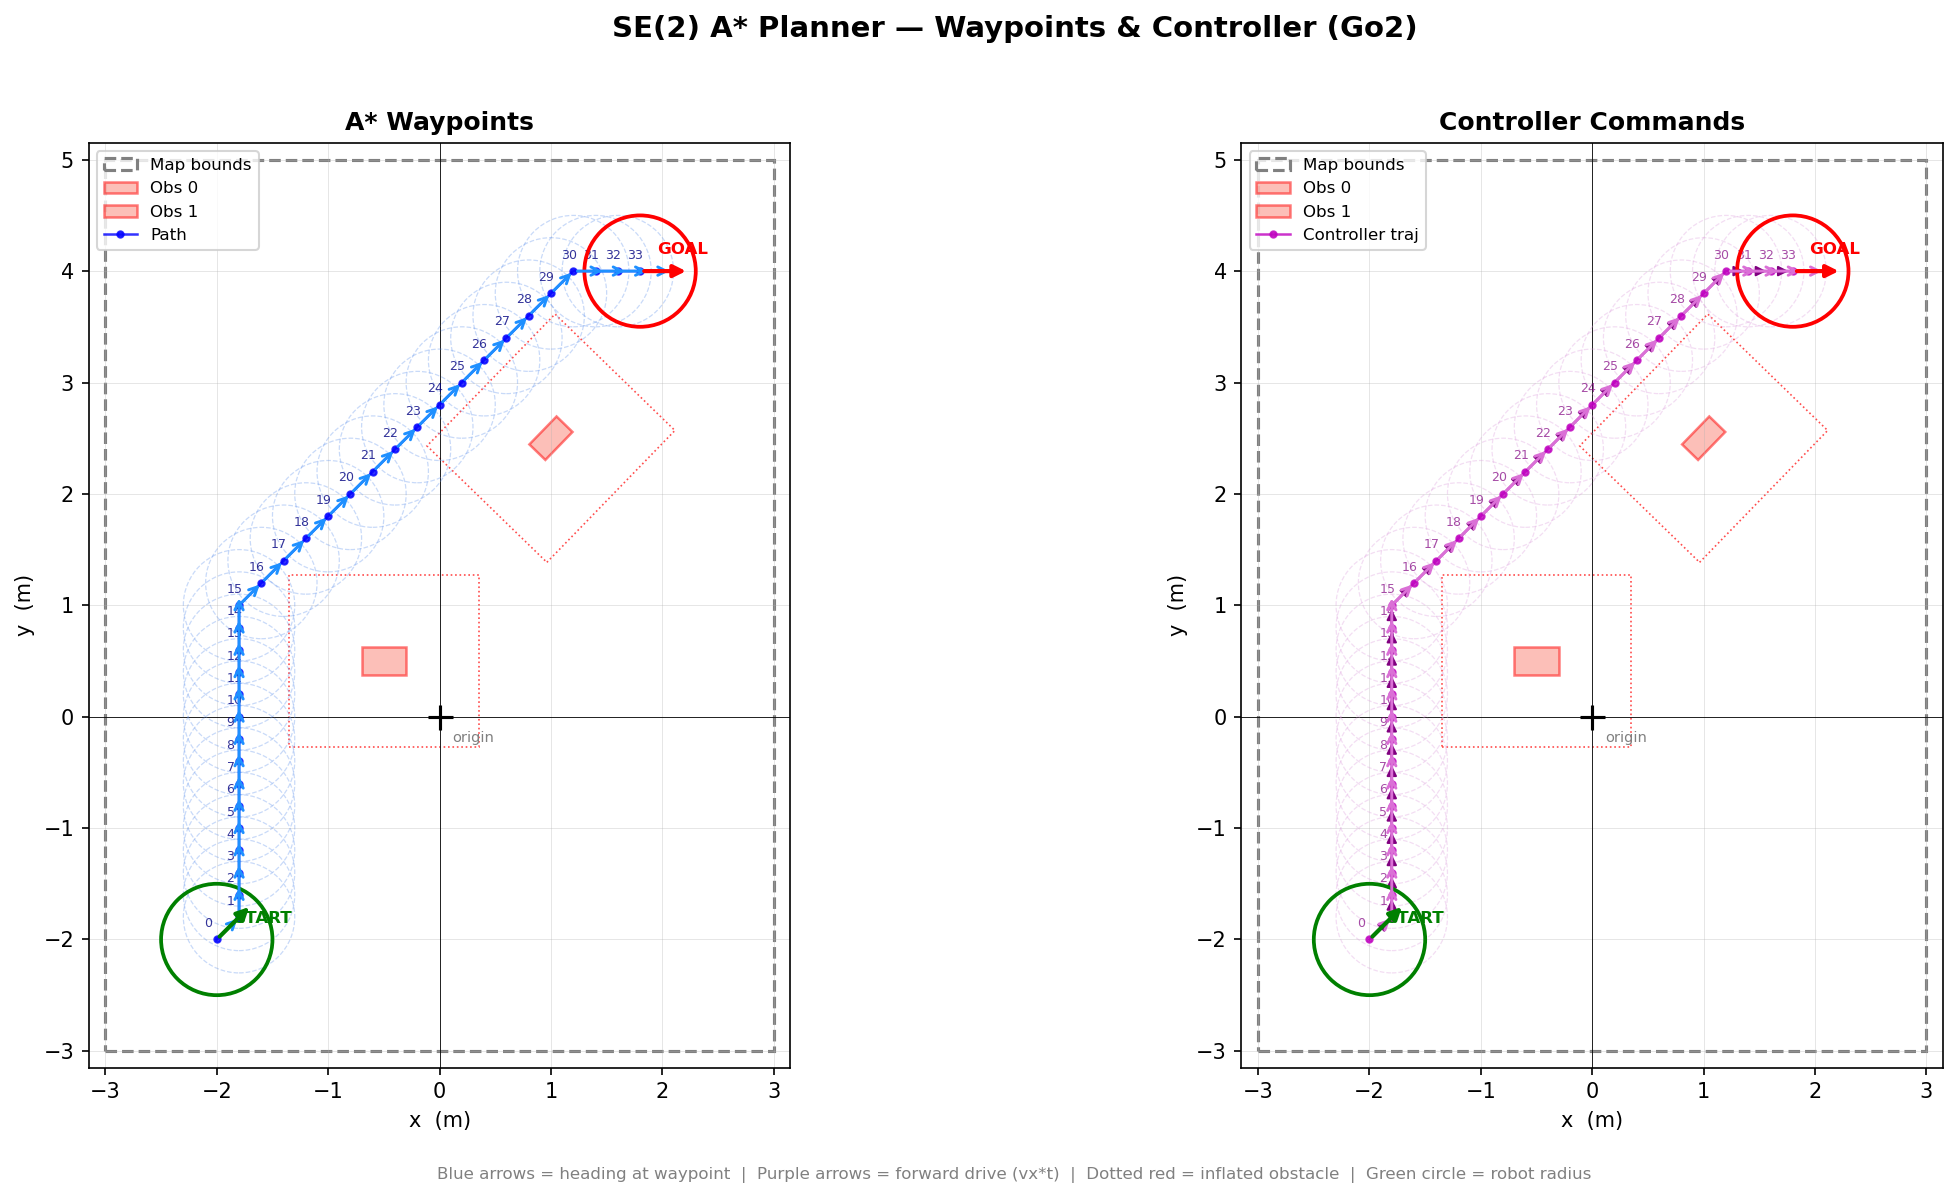
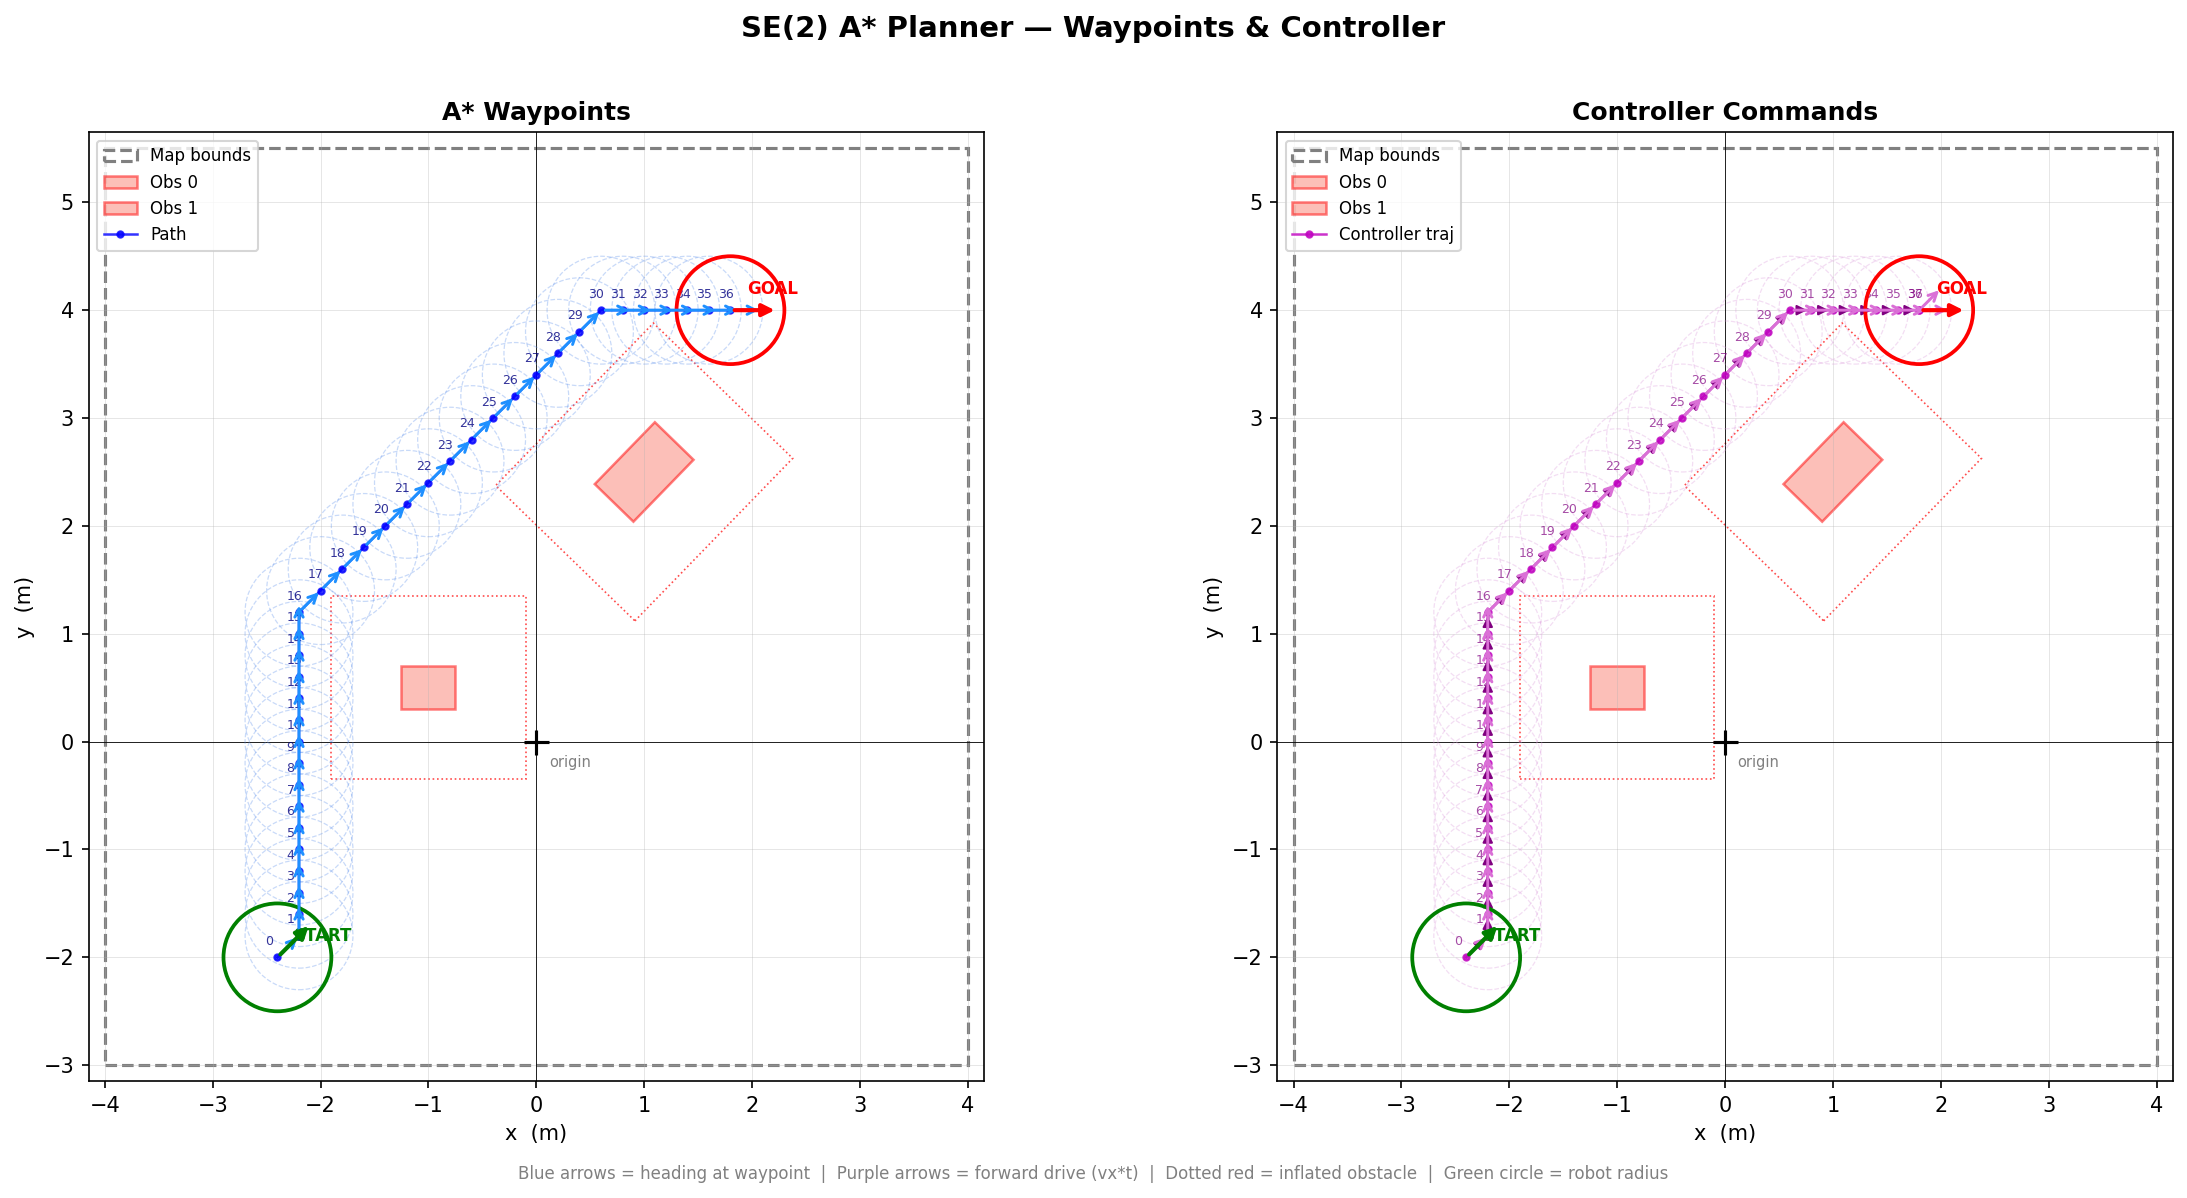
Regenerate gallery images without Go2 branding, clean up README
- Regenerate all 10 gallery PNGs with current code (no Go2 in titles)
- Use gallery/05_four_obs_dense.png as README hero image instead of
  deleted plan_viz.png
- Add plan_viz.png to .gitignore (runtime output only)

diff --git a/README.md b/README.md
@@ -2,7 +2,7 @@
 
 Discrete grid-based A* planner over SE(2) (x, y, theta) with velocity controller output. Controls are written line-by-line to `controls.txt`.
 
-![Plan Visualization](plan_viz.png)
+![Plan Visualization](gallery/05_four_obs_dense.png)
 
 ## Prerequisites
 
@@ -60,7 +60,6 @@ Generated at runtime (gitignored):
 ```
 controls.txt             Output: one line per step (vx, vy, vtheta)
 astar                    Compiled binary
-plan_viz.png             Visualization image
 ```
 
 ## Config
